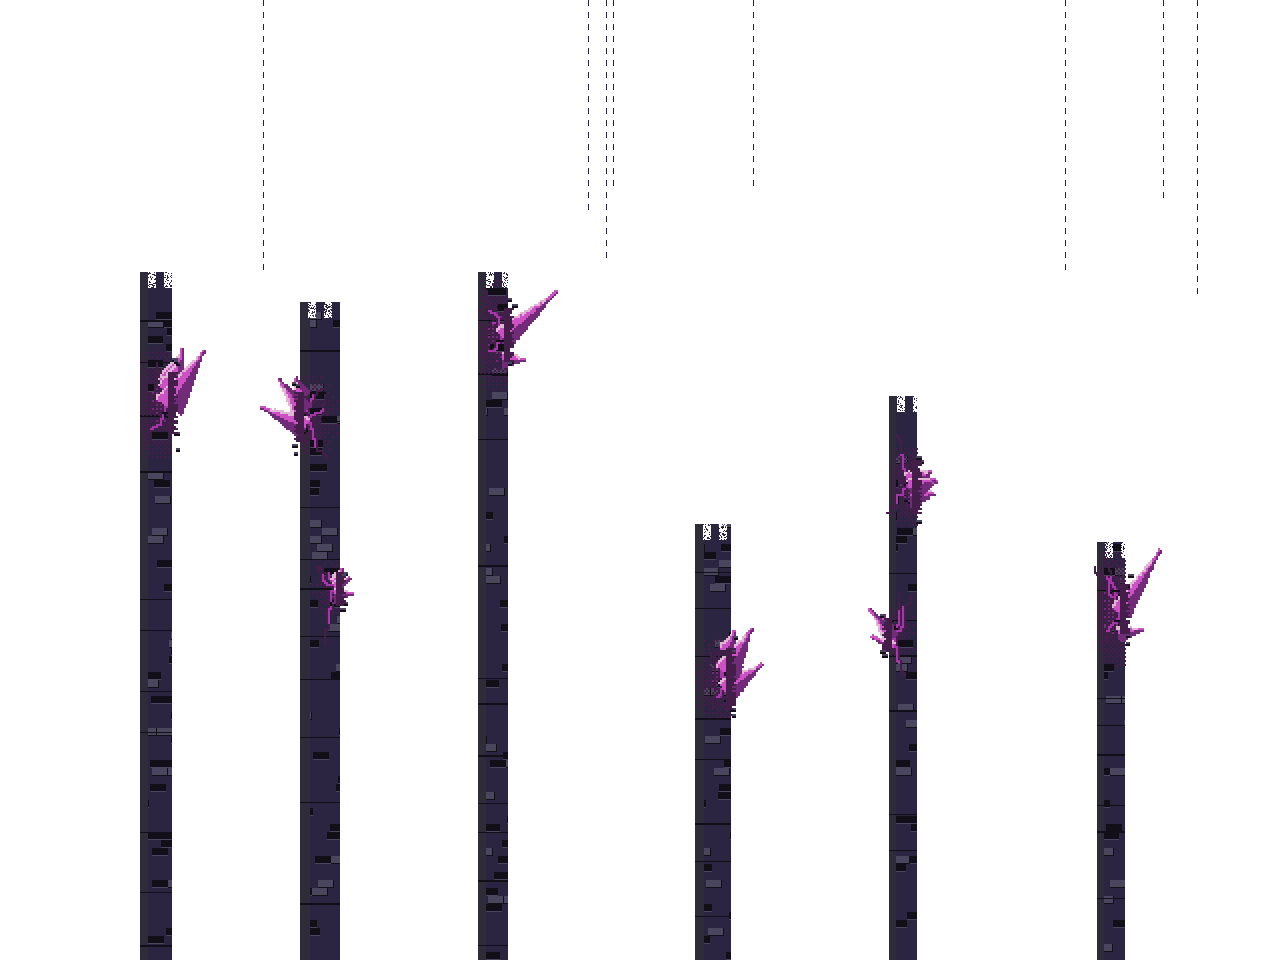
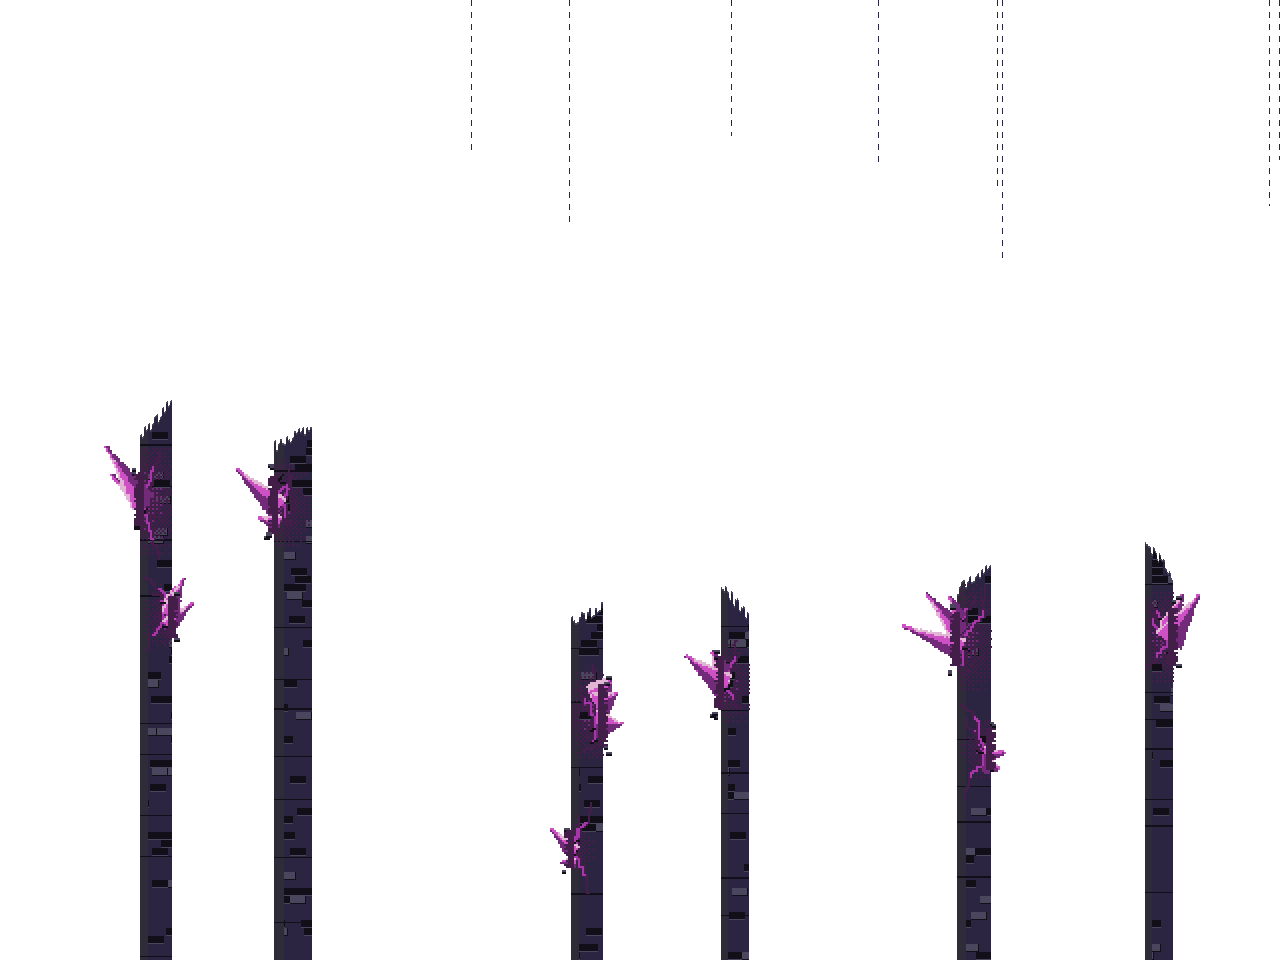
Pass 644: the mid columns break (#728)
* Pass 644: the mid columns break

The Tower's mid girders become lattice trusses hanging to their own depths,
ending in pulleys, over posts that rise to beams on knee braces; Vorrhallow's
mid colonnade is broken off lower, each column across its own lit fracture
(bible 12.120).

* Pass 644: record the full suite

---------

diff --git a/tools/art/tilegen.py b/tools/art/tilegen.py
@@ -2256,29 +2256,99 @@ def tower_far():
     return img
 
 
+# The mid columns break (design bible 12.120, pass 644). After the far columns broke
+# (12.119), the mid layers' columns still ran the room's height: the Tower's five
+# girders from roof to floor, and Vorrhallow's colonnade from high in the hall to the
+# water. Now the Tower's trusses hang to their own depths and its posts rise to beams,
+# and Vorrhallow's columns are broken off lower, each across its own fracture.
+MID_RUN_MAX = 0.7  # the longest a mid column may run, as a share of the layer's height
+
+
+def _hanging_truss(img, cx, length, seed):
+    """A lattice truss hanging from the roof at `cx`: two chords with a zigzag web
+    between them, `length` rows long, ending in a bracket plate, a pulley block and
+    a short hook."""
+    w = 14 * D
+    x0 = cx - w // 2
+    panel = w + 2 * D
+    for y in range(length):
+        for dx in (0, 1, 2, 3):
+            put(img, x0 + dx, y, c("night-0" if dx == 0 else ("stone-1" if dx < 3 else "night-1")))
+            put(img, x0 + w - 1 - dx, y, c("night-0" if dx == 0 else "night-1"))
+        # The web: one diagonal a panel, alternating its lean, and a strut at each joint.
+        k, t = divmod(y + int(hash2(seed, 5, 9) * panel), panel)
+        u = t / panel if k % 2 == 0 else 1 - t / panel
+        wx = x0 + 4 + int(u * (w - 10))
+        for dx in range(2 * D):
+            put(img, wx + dx, y, c("night-1" if dx else "stone-1"))
+        if t < D:
+            for dx in range(4, w - 4):
+                put(img, x0 + dx, y, c("night-1"))
+    # The bracket plate, the pulley block's wheel and a hook.
+    for y in range(length, length + 4 * D):
+        for dx in range(-2 * D, w + 2 * D):
+            put(img, x0 + dx, y, c("stone-2" if y == length else ("night-0" if y >= length + 3 * D else "night-1")))
+    wy = length + 10 * D
+    for y in range(wy - 6 * D, wy + 6 * D):
+        for x in range(cx - 6 * D, cx + 6 * D):
+            r = math.hypot(x - cx + 0.5, y - wy + 0.5)
+            if r < 6 * D:
+                col = "night-0" if r > 5 * D or r < 1.5 * D else ("stone-1" if x < cx and y < wy else "night-1")
+                put(img, x, y, c(col))
+    for y in range(wy + 6 * D, wy + 10 * D):
+        put(img, cx, y, c("stone-2"))
+        put(img, cx + 1, y, c("stone-1"))
+    for dx in range(-2 * D, D):
+        put(img, cx + dx, wy + 10 * D, c("stone-2"))
+    put(img, cx - 2 * D, wy + 10 * D - 1, c("stone-2"))
+
+
+def _rising_post(img, cx, height, reach, cs):
+    """A bolted post rising `height` rows from the floor at `cx`, with a cap plate
+    and a beam `reach` either side carried on two knee braces; `cs` are its bolt
+    courses."""
+    w = 10 * D
+    x0, top = cx - w // 2, BG_H - height
+    for y in range(top, BG_H):
+        for dx in range(w):
+            edge = dx in (0, w - 1)
+            col = "night-0" if edge else ("stone-1" if dx < 3 else "night-1")
+            if (not edge) and y in cs:
+                col = "stone-2"  # a bolt course, weathered off the fixed period
+            put(img, x0 + dx, y, c(col))
+    # The beam on the cap plate, lit on its top, riveted, dark beneath.
+    by = top - 6 * D
+    for y in range(by, top):
+        for x in range(cx - reach, cx + reach):
+            col = "stone-2" if y == by else ("night-0" if y >= top - D else "night-1")
+            if by + 2 * D <= y < top - 2 * D and (x - cx) % (8 * D) == 0:
+                col = "stone-1"
+            put(img, x, y, c(col))
+    # Knee braces from the post's sides up to the beam's underside.
+    run = int(reach * 0.6)
+    for side in (-1, 1):
+        for t in range(run - w // 2):
+            x = cx + side * (w // 2 + t)
+            y = top + run - w // 2 - t
+            for th in range(3 * D):
+                put(img, x, y - th, c("night-0" if th in (0, 3 * D - 1) else "night-1"))
+
+
 def tower_mid():
     img = Image.new("RGBA", (BG_W, BG_H), CLEAR)
     rng = random.Random(22)
-    # Cross-braced girders bolted between the walls.
+    # The mid girders break (bible 12.120): none runs the room's height. Lattice
+    # trusses hang from the roof, each to its own depth, and end in a pulley block;
+    # between them, bolted posts rise from the floor and carry a beam on knee braces.
+    bay = BG_W // 5
     for i in range(5):
-        x0 = i * BG_W // 5 + rng.randrange(-40, 40)
-        w = 10 * D
-        cs = masonry_courses(0, BG_H, 500 + i, 24 * D)
-        for y in range(BG_H):
-            for dx in range(w):
-                edge = dx in (0, w - 1)
-                col = "night-0" if edge else ("stone-1" if dx < 3 else "night-1")
-                if (not edge) and y in cs:
-                    col = "stone-2"  # a bolt course, weathered off the fixed period
-                put(img, x0 + dx, y, c(col))
-        # A diagonal brace to the next girder.
-        x1 = x0 + BG_W // 5
-        for k in range(0, BG_H, 160 * D):
-            y0 = k + rng.randrange(0, 40) * D
-            for t in range(x1 - x0):
-                yy = y0 + t * 60 * D // max(1, (x1 - x0))
-                for th in range(4 * D):
-                    put(img, x0 + t, yy + th, c("night-1" if 0 < th < 4 * D - 1 else "night-0"))
+        _hanging_truss(img, i * bay + rng.randrange(-10, 11) * D, int(BG_H * rng.uniform(0.32, MID_RUN_MAX - 0.05)), i)
+    for i in range(5):
+        if i == 2:
+            continue  # one bay stands open to the far wall
+        h = int(BG_H * rng.uniform(0.26, 0.44))
+        _rising_post(img, i * bay + bay // 2 + rng.randrange(-10, 11) * D, h, rng.randrange(18, 28) * D,
+                     masonry_courses(BG_H - h, BG_H, 500 + i, 24 * D))
     # Chains and hanging lamps.
     for i in range(7):
         x = rng.randrange(BG_W)
@@ -3083,21 +3153,26 @@ def vorrhallow_far():
 def vorrhallow_mid():
     img = Image.new("RGBA", (BG_W, BG_H), CLEAR)
     rng = random.Random(62)
-    # Broken colonnades and toppled statues of dwarf kings, nearer and darker,
-    # with stillglass grown out of them.
+    # A broken colonnade, nearer and darker, with stillglass grown out of it. The
+    # columns are broken off well below the vault (bible 12.120), none within
+    # MID_RUN_MAX of the hall's height, each across a fracture of its own: a slant
+    # one way or the other, chipped, its broken face lit.
     columns = []
     for i in range(6):
         x0 = int((i + rng.uniform(0.1, 0.7)) * BG_W / 6)
         w = rng.randrange(14, 24) * D
-        top = rng.randrange(120, 300) * D
+        top = rng.randrange(int(BG_H * (1 - MID_RUN_MAX)) // D + 46, 310) * D
+        slant = rng.choice([-1, 1]) * rng.uniform(0.4, 1.0)
         cs = masonry_courses(top, BG_H, 620 + i, 24 * D)
-        for y in range(top, BG_H):
-            for dx in range(w):
-                if y < top + 8 * D and (dx // (4 * D)) % 2 and rng.random() > 0.3:
-                    continue  # a broken top
+        for dx in range(w):
+            u = dx / w if slant > 0 else 1 - dx / w
+            brk = top + int(abs(slant) * u * 18 * D + hash2(dx // D, 3, 620 + i) * 6 * D)
+            for y in range(brk, BG_H):
                 col = "stone-1" if dx < w * 0.25 else masonry_shade(x0 + dx, y, 620 + i, "night-0", "night-1", "stone-2")
                 if y in cs:
                     col = "night-0"  # a weathered mortar course
+                if y < brk + D:
+                    col = "stone-2"  # the broken face, catching the light
                 put(img, x0 + dx, y, c(col))
         columns.append((x0, w, top))
     # Stillglass bursting from the columns' faces: a broad-based cluster seated on
@@ -3108,7 +3183,7 @@ def vorrhallow_mid():
     deal = stillglass_habits(rng, 2 * len(columns))
     for x0, w, top in columns:
         side = rng.choice([-1, 1])
-        ry = top // D + rng.randrange(24, 80)
+        ry = top // D + rng.randrange(34, 70)
         for n, s_ in enumerate((side, -side)):
             if n and rng.random() < 0.45:
                 continue
@@ -3119,12 +3194,12 @@ def vorrhallow_mid():
                               rng.randrange(12, 18) if n else rng.randrange(22, 33),
                               rng.randrange(7, 10) if n else rng.randrange(12, 17),
                               MID_STILLGLASS, glow=MID_STILLGLASS_GLOW, habit=habits[-1], veins=MID_STILLGLASS_VEIN)
-            ry += rng.randrange(50, 110)
+            ry += rng.randrange(40, 80)
     STILLGLASS_SEATS["vorrhallow_mid"] = {"pillars": [(x // D, w // D) for x, w, _ in columns], "seats": seats, "habits": habits}
-    # Hanging chains from the vault.
+    # Hanging chains from the vault, ending well above the broken columns.
     for _ in range(8):
         x = rng.randrange(BG_W)
-        for y in range(0, rng.randrange(60, 180) * D):
+        for y in range(0, rng.randrange(40, 130) * D):
             if (y // (3 * D)) % 2 == 0:
                 put(img, x, y, c("night-1"))
     return img

diff --git a/tools/art/test_tilegen.py b/tools/art/test_tilegen.py
@@ -726,6 +726,43 @@ def test_no_far_column_runs_the_height_of_its_layer():
         assert stood > tg.BG_W // 2 * 0.25, f"{painter.__name__}: columns stand in only {stood} of the width"
 
 
+def _mid_column_run(img):
+    """The longest vertical run, as a share of the layer's height, of anything drawn
+    on a (transparent) mid layer in one column of pixels, bridging gaps of up to 12
+    world px."""
+    a = img.getchannel("A").load()
+    longest = 0
+    for x in range(0, tg.BG_W, 2):
+        run = gap = 0
+        for y in range(tg.BG_H):
+            if a[x, y]:
+                run = run + gap + 1 if run else 1
+                gap = 0
+                longest = max(longest, run)
+            else:
+                gap += 1
+                if gap > 12 * tg.D:
+                    run = gap = 0
+    return longest / tg.BG_H
+
+
+def test_no_mid_column_runs_the_height_of_the_room():
+    # After the far columns broke (pass 643), the mid layers' columns still ran the
+    # room's height: the Tower's girders roof to floor, Vorrhallow's colonnade from
+    # high in the hall to the water. Now the Tower's trusses hang to their own depths
+    # and its posts rise to beams, and Vorrhallow's columns are broken off lower
+    # (bible 12.120, pass 644). Running any of them the height again fails here.
+    for painter in (tg.tower_mid, tg.vorrhallow_mid):
+        img = painter()
+        run = _mid_column_run(img)
+        assert run <= tg.MID_RUN_MAX, f"{painter.__name__}: a column runs {run:.2f} of the layer's height"
+        # And the layer still has its columns: something stands at the hall's
+        # middle height, or near the floor, in a good share of the width.
+        a = img.getchannel("A").load()
+        stood = sum(1 for x in range(0, tg.BG_W, 2) if any(a[x, y] for y in range(int(tg.BG_H * 0.7), int(tg.BG_H * 0.75))))
+        assert stood > tg.BG_W // 2 * 0.06, f"{painter.__name__}: columns stand in only {stood} of the width"
+
+
 def test_a_leaning_shard_has_no_gaps():
     # A leaning shard slid each column sideways, leaving holes in its crest, and every
     # hole drew a cleft: the crystal halls' ridge was striped. It is whole now: from

diff --git a/docs/loop/pass-644.md b/docs/loop/pass-644.md
@@ -1,0 +1,91 @@
+# Pass 644: the mid columns break
+
+## Category
+
+Art cohesion and environments. The top item of the queue, from pass 643's Next: after the far
+columns broke (pass 643), the mid layers' columns still ran the room's height, the Tower's
+girders and Vorrhallow's colonnade.
+
+No note from Sean was new. The PixelLab art loop stays **gated** on Sean: three guardian bases
+(Haar Wyrm, Thane Vorrund, Drowned Warden) wait for his OK, the limit of three. No PixelLab
+generations were spent, and no Autosprite credits. README's playtest link already points at
+https://github.com/sagedragoon79/Yldenfall.
+
+## Audit
+
+Measured as the longest run, in one column of pixels, of anything drawn on the (transparent)
+mid layer, bridging gaps of up to 12 world px:
+
+- **The Tower's girders** (`tower_mid`): five bolted girders from roof to floor, with diagonal
+  braces between them at every height. 1.00 of the layer's height.
+- **Vorrhallow's colonnade** (`vorrhallow_mid`): six columns from 0.25 to 0.62 of the way down
+  the hall to the water, each with a small crenellated break. 0.72; in the room's view the
+  tallest stood from just under the arches to the floor.
+
+## What was built
+
+Design bible 12.120, in `tools/art/tilegen.py`. No mid column now runs more than
+`MID_RUN_MAX` (0.7) of its layer's height.
+
+- **The Tower: trusses and posts** (`_hanging_truss`, `_rising_post`). Five lattice trusses hang
+  from the roof, each to its own depth (0.32 to 0.65): two chords, a zigzag web with a strut at
+  each joint, and at the foot a bracket plate, a pulley wheel and a hook. Four bolted posts rise
+  from the floor between them (0.26 to 0.44) and carry a riveted beam on two knee braces; one
+  bay stands open to the far wall. Longest run: 0.69.
+- **Vorrhallow: a ruin** (`vorrhallow_mid`). The columns break off between 0.35 and 0.6 of the
+  hall's height, each across a slanted, chipped fracture of its own with its broken face lit.
+  The stillglass seats sit lower to stay below each break, and the vault's chains end well
+  above the columns. Longest run: 0.60.
+
+Thrown out on the way:
+
+- **Vorrhallow's columns broken between 0.35 and 0.68 of the height.** The tallest still stood
+  from under the arches to the floor in the room's view. The highest break is now 0.6.
+
+## Checked by eye
+
+At 1x and 2x in `tower/foot` and `vorrhallow/alpha_den`, before and after (after a Godot
+reimport). The Tower's mid layer is hanging trusses ending in pulleys over beam-topped posts,
+with no bar from top to bottom; Vorrhallow's colonnade is broken stumps at four or five
+heights, the glass seated below the breaks. No foreground layer frames the rooms yet; see Next.
+
+## Tests
+
+`test_no_mid_column_runs_the_height_of_the_room` in `tools/art/test_tilegen.py`: in both mid
+layers no column runs more than `MID_RUN_MAX` of the height, and something still stands near
+the floor in a share of the width (so an empty layer does not pass).
+
+| Mutation | Result |
+| --- | --- |
+| the trusses run the full height | fails (1.00) |
+| the posts rise to the roof | fails (1.00) |
+| no trusses or posts drawn | fails (stand in 0 of the width) |
+| Vorrhallow's columns topped from 60 world px | fails (0.84) |
+
+## Full suite
+
+Full suite (`TEST_TIMEOUT=7200`): 36,986 checks; 36,942 passed and 44 failed in five tests that read tables from the bible (guardians' numbers, shop prices, secrets, zone sounds, the gold sheet). The cause was local: a Python edit had written the working copy of `docs/design-bible.md` with CRLF line endings, so a row ended in a stray carriage return ("the bible says 200 |"). The committed file was LF all along, and CI passed. With the working copy back to LF, the five tests ran alone: 342 checks, all passed. `tools/art/test_tilegen.py` ran alone first: 111 checks, all passed.
+
+## Rubric (design bible 15.3)
+
+| Category | Weight | Score | Notes |
+| --- | --- | --- | --- |
+| Movement feel | 20 | 99 | Unchanged. |
+| Combat and enemies | 15 | 99 | Unchanged. |
+| World and level design | 15 | 99 | Unchanged. |
+| Art cohesion | 15 | 98 | No column in the far or mid layers of the Tower or Vorrhallow runs the room's height now. No foreground layer frames the rooms; the town's skyline, the fog and the Haar's dither stay. |
+| Bosses | 10 | 99 | Unchanged. |
+| Systems | 10 | 99 | Unchanged. |
+| Audio | 5 | 99 | Unchanged. |
+| Stability and performance | 5 | 99 | Unchanged (baked pictures). |
+| Story and world | 5 | 99 | Unchanged. |
+
+Weighted: 98.85.
+
+## Next
+
+No foreground layer frames the rooms. Then: foes in two styles (the knight's grey-green blends
+in); set dressing pasted on (crystals, the tree through the shrine gate, identical islands);
+spikes that read as grass or railings; light as additive circles; ground strip tiling. Held as
+before: the Haar's fog and dither, the sword's slab and the hero's attack pose, the hero's size,
+the shop portrait. The next independent grade is due after pass 645.

diff --git a/docs/design-bible.md b/docs/design-bible.md
@@ -3100,7 +3100,20 @@ No far column now runs from the top of its layer to the bottom (`FAR_RUN_MAX`, 0
 
 Judged by eye at 1x and 2x in `heartwood/entrance`, `tower/foot` and `vorrhallow/alpha_den`. `test_no_far_column_runs_the_height_of_its_layer` (`tools/art/test_tilegen.py`) holds it.
 
-- **Not done here.** The mid layers' columns (the Tower's girders, Vorrhallow's colonnade) still run the height of the room, and no foreground layer frames the rooms.
+- **Not done here.** The mid layers' columns (the Tower's girders, Vorrhallow's colonnade; done in pass 644, 12.120) still run the height of the room, and no foreground layer frames the rooms.
+
+### 12.120 The mid columns break (pass 644)
+
+After 12.119, the mid layers still had columns running the room's height: the Tower's five girders from roof to floor, and Vorrhallow's colonnade from high in the hall down to the water.
+
+No mid column now runs more than `MID_RUN_MAX` (0.7 of the layer's height, in `tools/art/tilegen.py`):
+
+- **The Tower** (`tower_mid`, `_hanging_truss`, `_rising_post`). Five lattice trusses hang from the roof, each to its own depth (0.32 to 0.65 of the layer): two chords, a zigzag web with a strut at each joint, and at the foot a bracket plate, a pulley wheel and a hook. Between them four bolted posts rise from the floor (0.26 to 0.44 of the layer) and carry a riveted beam on two knee braces; one bay stands open to the far wall. The chains and hanging lamps stay.
+- **Vorrhallow** (`vorrhallow_mid`). The colonnade's columns are broken off lower, between 0.35 and 0.6 of the hall's height, each across a fracture of its own: a slant one way or the other, chipped, its broken face lit. The stillglass is seated on each column below its break, and the vault's chains end well above the columns.
+
+Judged by eye at 1x and 2x in `tower/foot` and `vorrhallow/alpha_den`. `test_no_mid_column_runs_the_height_of_the_room` (`tools/art/test_tilegen.py`) holds it.
+
+- **Not done here.** No foreground layer frames the rooms.
 
 ## 13. Asset Production Plan
 
